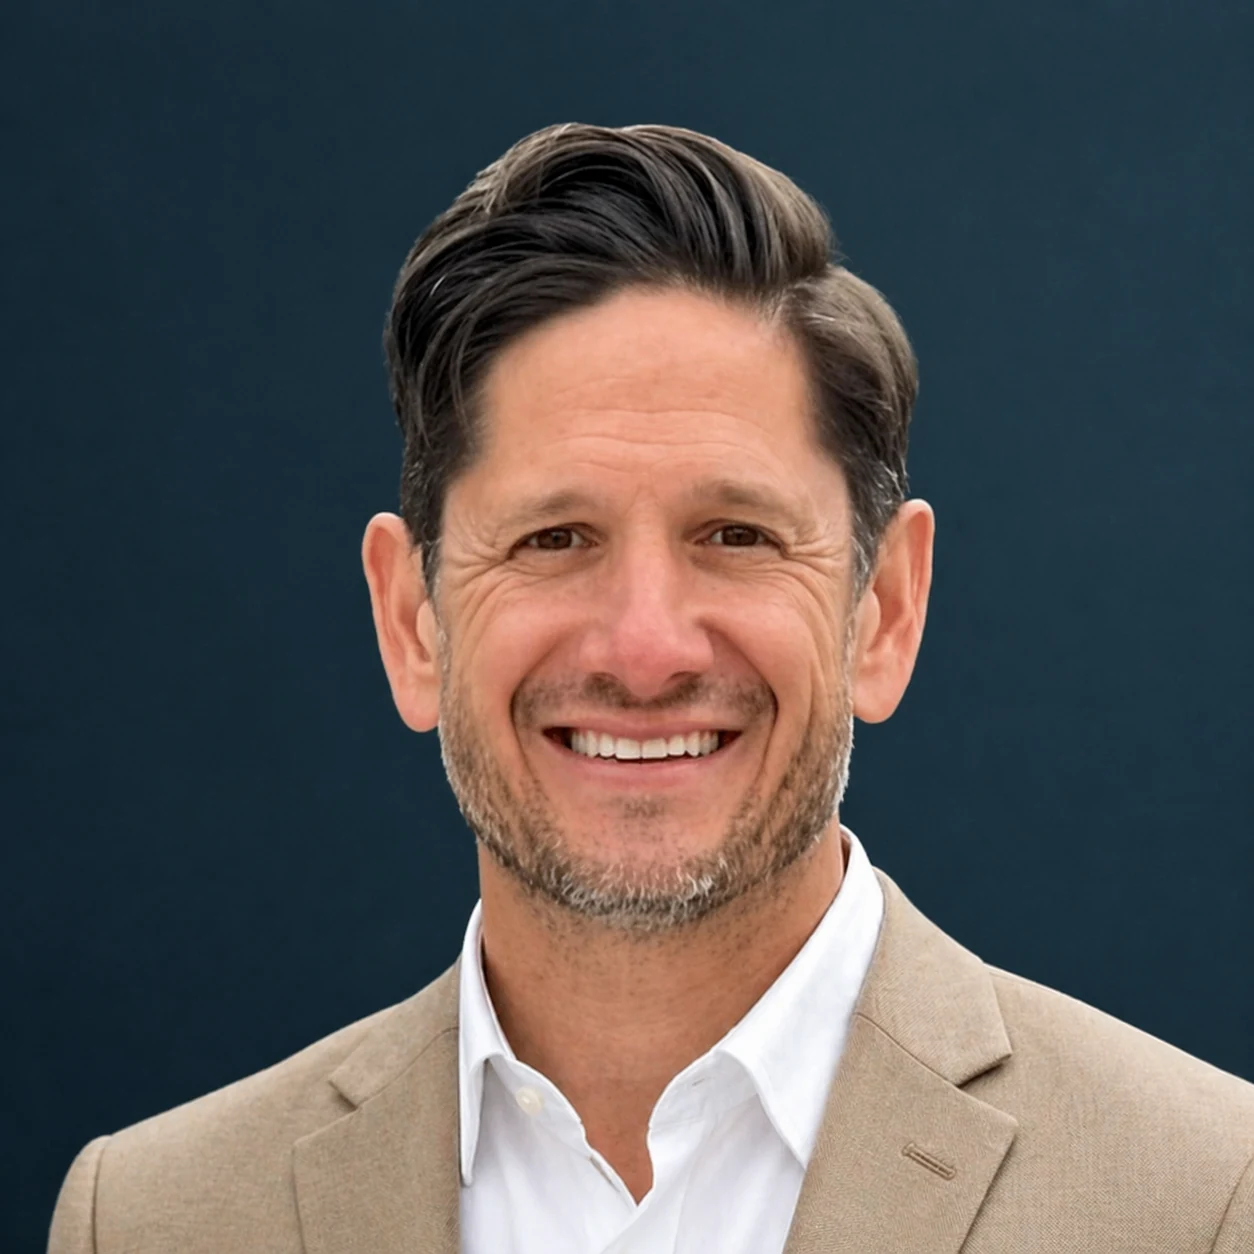
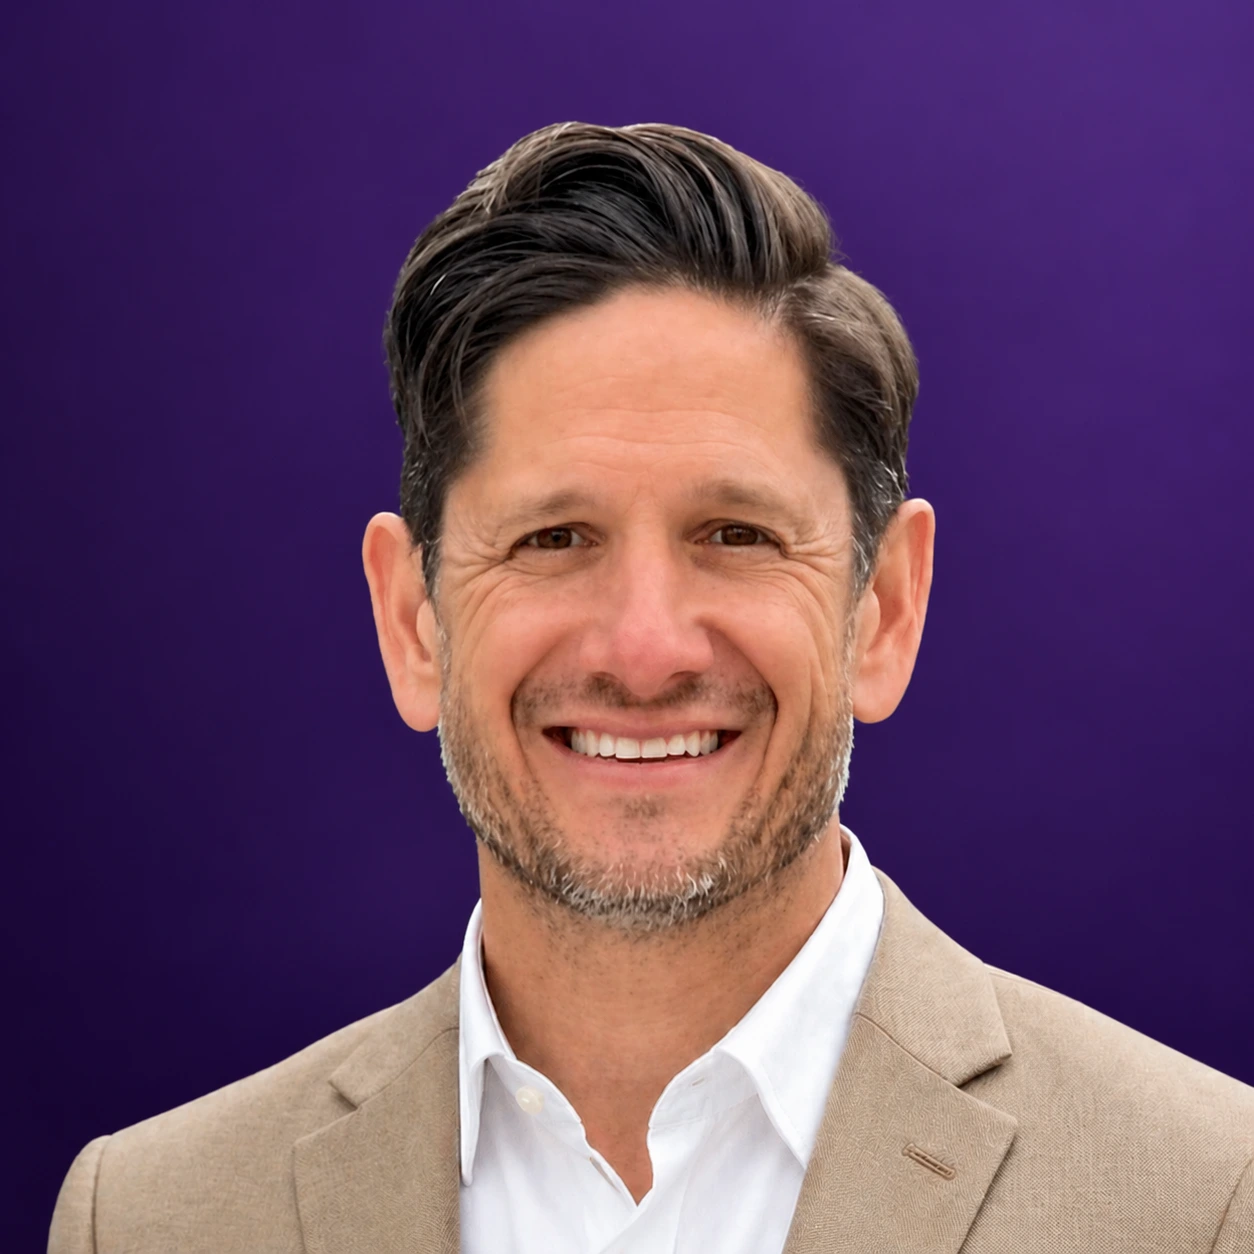
Add files via upload

diff --git a/public/money-at-work/style.css b/public/money-at-work/style.css
@@ -45,3 +45,19 @@
 .quiz-promise{font-weight:700;color:var(--purple,#49318a);font-size:clamp(14px,1.4vw,17px);margin-top:12px}
 .quiz-header h2{max-width:720px}
 @media(max-width:560px){.quiz-section{padding-top:35px;padding-bottom:35px}.quiz-shell{padding:20px 16px}.quiz-header h2{font-size:clamp(27px,7vw,36px)}.quiz-promise{line-height:1.4}}
+
+
+/* V6.9: top-of-page quiz placement, simplified start section, updated headshot, and tighter mobile language */
+.start .offer-grid{display:block}
+.start .offer{max-width:860px;margin-inline:auto}
+@media(max-width:820px){.quiz-section{padding-top:24px}.hero-copy{margin-top:14px}}
+@media(max-width:560px){
+  .hero-intro h1{font-size:clamp(27px,7.0vw,34px);line-height:1.06}
+  .hero .video-actions .micro{display:none}
+  .quiz-section{padding-top:18px;padding-bottom:22px}
+  .quiz-shell{padding:18px 14px}
+  .quiz-header p:not(.eyebrow){font-size:13px}
+  .start{padding-top:34px}
+  .start .offer{padding:22px}
+  .booking{padding:44px 0}
+}

diff --git a/public/money-at-work/campaign.js b/public/money-at-work/campaign.js
@@ -28,5 +28,5 @@ $('#quiz-content').addEventListener('click',e=>{const b=e.target.closest('[data-
 $('#filters').addEventListener('click',e=>{const b=e.target.closest('[data-stage]');if(!b)return;document.querySelectorAll('#filters button').forEach(x=>{x.classList.toggle('active',x===b);x.setAttribute('aria-pressed',String(x===b))});document.querySelectorAll('[data-video-stage]').forEach(c=>c.hidden=b.dataset.stage!=='All'&&c.dataset.videoStage!==b.dataset.stage)});
 // Quiz navigation stays on-page; booking links receive the ad UTM parameters.
 // Event instrumentation contains no financial information or personal data.
-window.dataLayer=window.dataLayer||[];window.dataLayer.push({event:'ripl_landing_view',version:'gc-v6-8',...attribution});
+window.dataLayer=window.dataLayer||[];window.dataLayer.push({event:'ripl_landing_view',version:'gc-v6-9',...attribution});
 render();

diff --git a/V6.9-CHANGES.md b/V6.9-CHANGES.md
@@ -1,0 +1,12 @@
+RIPL Financial GC — V6.9 changes
+
+- Updated hero headline to: "Save on taxes. Optimize investments. Holistic view. Simple."
+- Moved the full interactive quiz near the top of the page, directly below the hero.
+- Updated quiz presentation to emphasize: "Is Your Money Working as Hard as You Do?"
+- Removed the small hero quiz link.
+- Removed the standalone "No Documents Required" section / secondary offer card.
+- Kept the Free Tax Evaluation as its own "Recommended First Step" section.
+- Replaced "Let's get everyone on the same plan" with "Let's share some good ideas."
+- Changed public-facing call language from 30 minutes to 20 minutes.
+- Updated the About Adam headshot to use the RIPL-purple background version.
+- Preserved the intro video embed, three hero actions, quiz logic, UTM handling, and compliance disclosures.
